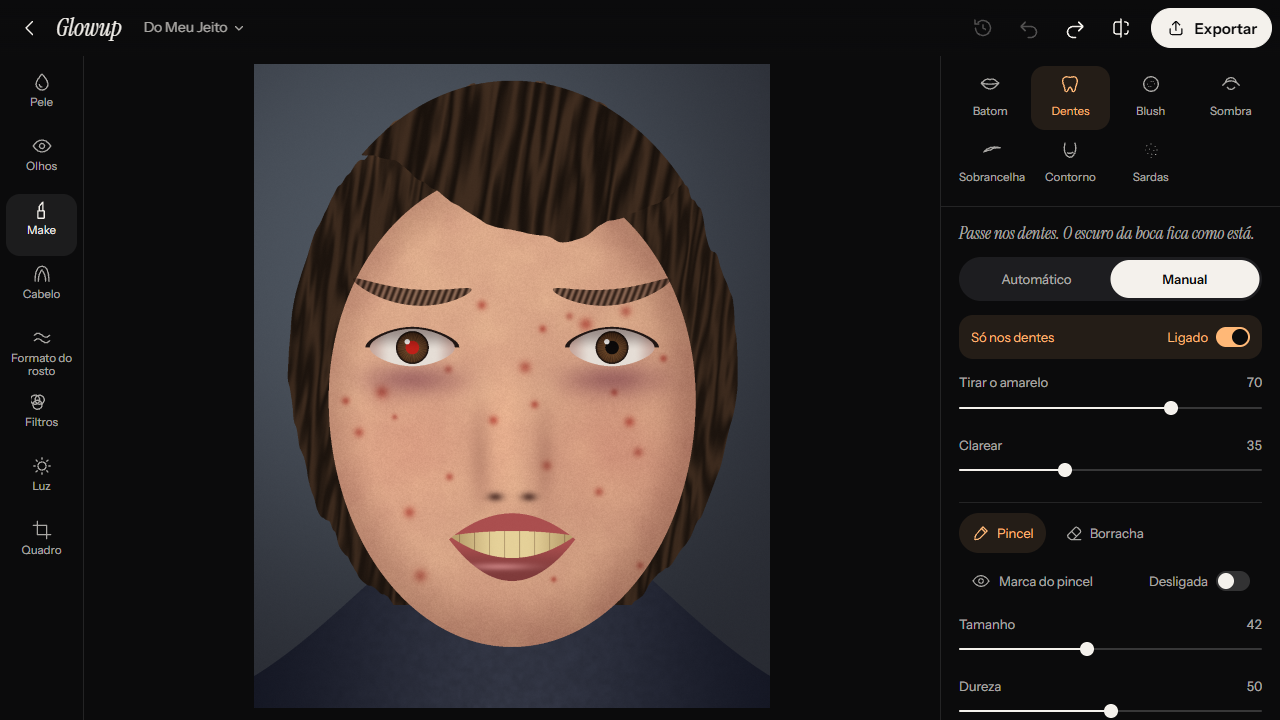
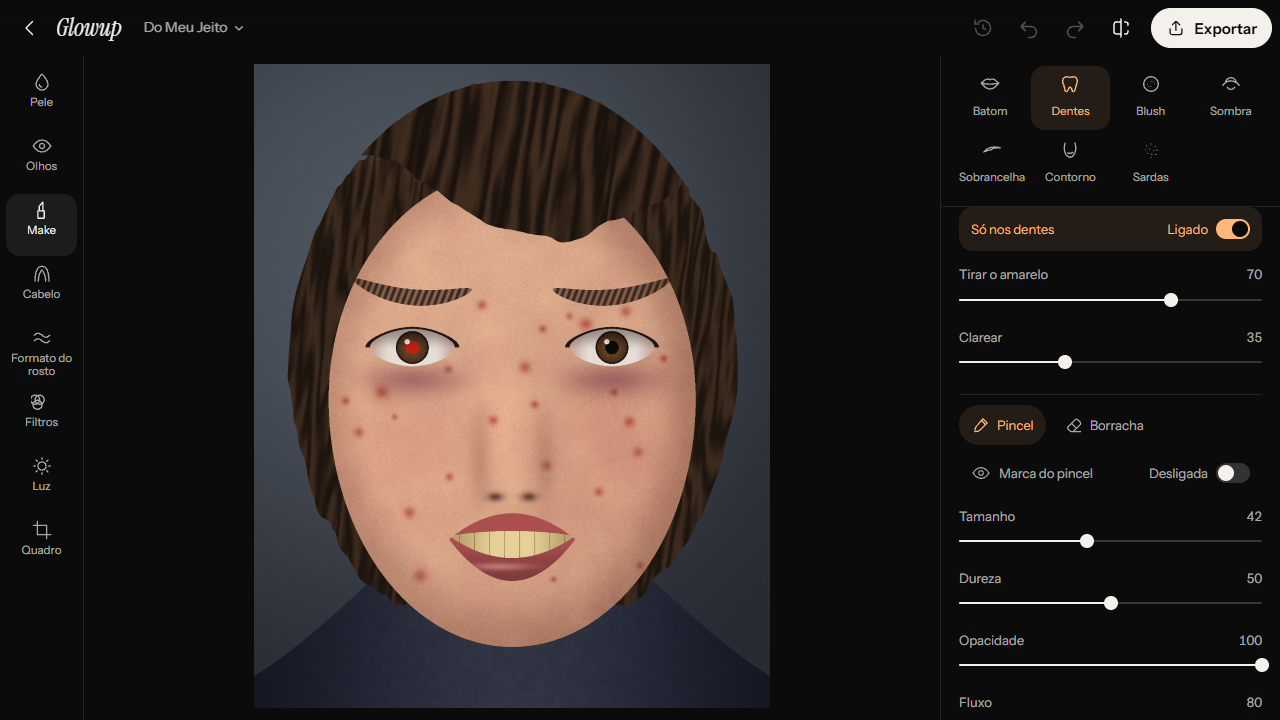
test: the region light is measured against the photo before Automático
Tools now open in Manual and the view no longer zooms on the eyes. Over the whole photo, the old
check between the light and the photo after it measured mostly the new iris color, and fell just
under its bar. The test now compares the photo before Automático with the light at its height.
The region screenshots are regenerated with all four changes together.

diff --git a/tests/e2e/region.spec.ts b/tests/e2e/region.spec.ts
@@ -32,19 +32,27 @@ test.describe('olhos e dentes em destaque', () => {
   test('abrir a ferramenta não mexe na vista, e um brilho mostra onde o pincel alcança', async ({ page }) => {
     const errors = watch(page);
     await openEditor(page);
-    await openTool(page, 'eyes', 'eyecolor');
+    await page.locator('[data-group=eyes]').click();
+    await page.locator('[data-tool=eyecolor]').click();
+    await settle(page, 300);
+    // The tool opens in Manual, with nothing on the photo yet.
+    const before = await page.screenshot();
+    await page.getByRole('radiogroup', { name: 'Modo' }).getByRole('radio', { name: 'Automático' }).click();
     await show(page, 'glow').waitFor({ timeout: 60_000 });
     expect(await viewZoom(page)).toBe(1);
-    // The light lasts about a second, and a screenshot here takes a good part of it.
+    // The light rises for about 0.3 s and lasts about a second, and a screenshot takes a good part of it.
+    await page.waitForTimeout(250);
     const lit = await page.screenshot({ path: shot('ui-regiao-brilho') });
+    // The light is on the photo before the new color is: over the whole photo the eyes are a small part,
+    // and at its height the light moves the mean by about 0.17.
+    expect(await meanDiff(page, before, lit, stage(page))).toBeGreaterThan(0.08);
     await expect(page.getByTestId('reach-chip')).toBeVisible();
     await showSettled(page);
     expect(await viewZoom(page)).toBe(1);
     await expect(page.getByTestId('reach-chip')).toHaveCount(0, { timeout: 5_000 });
     await settle(page, 300);
     const plain = await page.screenshot({ path: shot('ui-regiao-olhos') });
-    // The light was on the photo, and it left nothing behind.
-    expect(await meanDiff(page, lit, plain, stage(page))).toBeGreaterThan(0.05);
+    // The light left nothing behind.
     await settle(page, 500);
     expect(await meanDiff(page, plain, await page.screenshot())).toBeLessThan(0.002);
     // The orange mark stays off: the light is not the mark.
